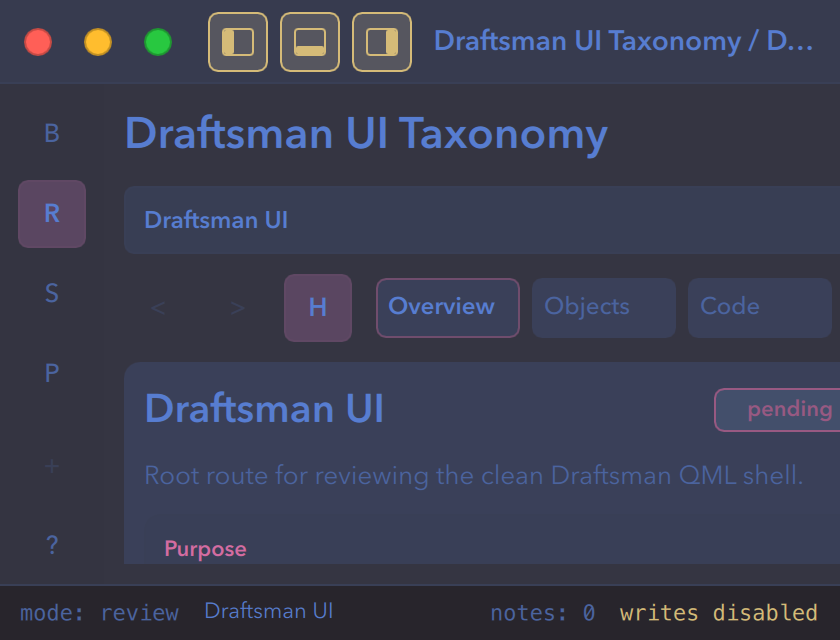
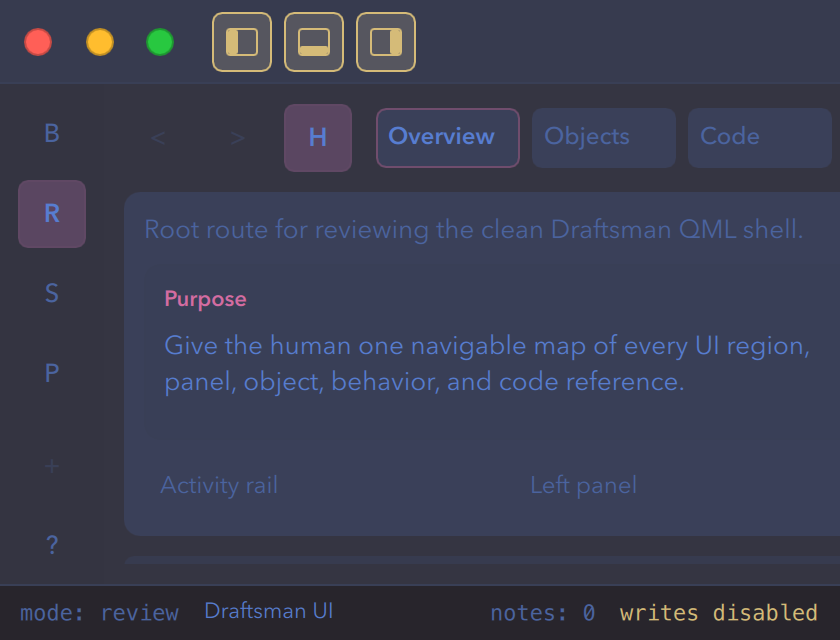
Remove duplicate workspace titles

diff --git a/src/features/ui_taxonomy/UiTaxonomyWorkspace.qml b/src/features/ui_taxonomy/UiTaxonomyWorkspace.qml
@@ -17,28 +17,6 @@ Rectangle {
 
         RowLayout {
             Layout.fillWidth: true
-            spacing: UiStyle.space8
-            Text {
-                Layout.fillWidth: true
-                text: controller ? controller.selectedSubjectLabel : "UI Taxonomy"
-                color: UiStyle.colorText
-                font.family: UiStyle.fontSans
-                font.pixelSize: 22
-                font.weight: UiStyle.fontWeightSemiBold
-                elide: Text.ElideRight
-            }
-            UiStatusChip {
-                status: controller ? controller.routeStatus(controller.selectedRouteId) : "pending"
-            }
-        }
-
-        ReviewBreadcrumb {
-            Layout.fillWidth: true
-            controller: workspace.controller
-        }
-
-        RowLayout {
-            Layout.fillWidth: true
             spacing: UiStyle.space6
             UiIconButton {
                 iconText: "<"
@@ -84,7 +62,7 @@ Rectangle {
 
                 UiTaxonomyFocusPanel {
                     Layout.fillWidth: true
-                    Layout.preferredHeight: 250
+                    Layout.preferredHeight: 172
                     controller: workspace.controller
                 }
 

diff --git a/src/regions/WindowTitleBar.qml b/src/regions/WindowTitleBar.qml
@@ -134,27 +134,8 @@ Rectangle {
             }
         }
 
-        Text {
+        Item {
             Layout.fillWidth: true
-            visible: !titleBar.hostWindow || titleBar.hostWindow.width >= 420
-            text: titleBar.controller ? titleBar.controller.selectedSubjectLabel + " / " + titleBar.controller.currentRoute().label : "Draftsman"
-            color: UiStyle.colorText
-            font.family: UiStyle.fontSans
-            font.pixelSize: UiStyle.fontSizeTitle
-            font.weight: UiStyle.fontWeightSemiBold
-            elide: Text.ElideRight
-            horizontalAlignment: Text.AlignHCenter
-
-            MouseArea {
-                anchors.fill: parent
-                acceptedButtons: Qt.LeftButton
-                onDoubleClicked: titleBar.toggleZoom()
-                onPressed: {
-                    if (titleBar.hostWindow && titleBar.hostWindow.startSystemMove) {
-                        titleBar.hostWindow.startSystemMove()
-                    }
-                }
-            }
         }
 
         RowLayout {

diff --git a/src/features/ui_taxonomy/UiTaxonomyFocusPanel.qml b/src/features/ui_taxonomy/UiTaxonomyFocusPanel.qml
@@ -13,24 +13,7 @@ UiPanel {
 
     ColumnLayout {
         anchors.fill: parent
-        spacing: UiStyle.space10
-
-        RowLayout {
-            Layout.fillWidth: true
-            spacing: UiStyle.space10
-            Text {
-                Layout.fillWidth: true
-                text: route.label || "Route"
-                color: UiStyle.colorText
-                font.family: UiStyle.fontSans
-                font.pixelSize: 20
-                font.weight: UiStyle.fontWeightSemiBold
-                elide: Text.ElideRight
-            }
-            UiStatusChip {
-                status: controller ? controller.routeStatus(route.id) : "pending"
-            }
-        }
+        spacing: UiStyle.space8
 
         Text {
             Layout.fillWidth: true
